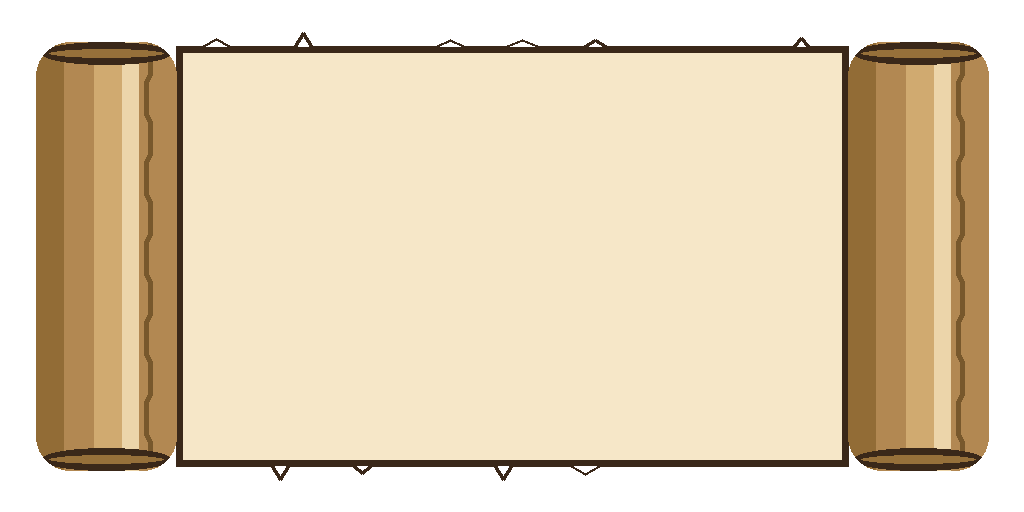
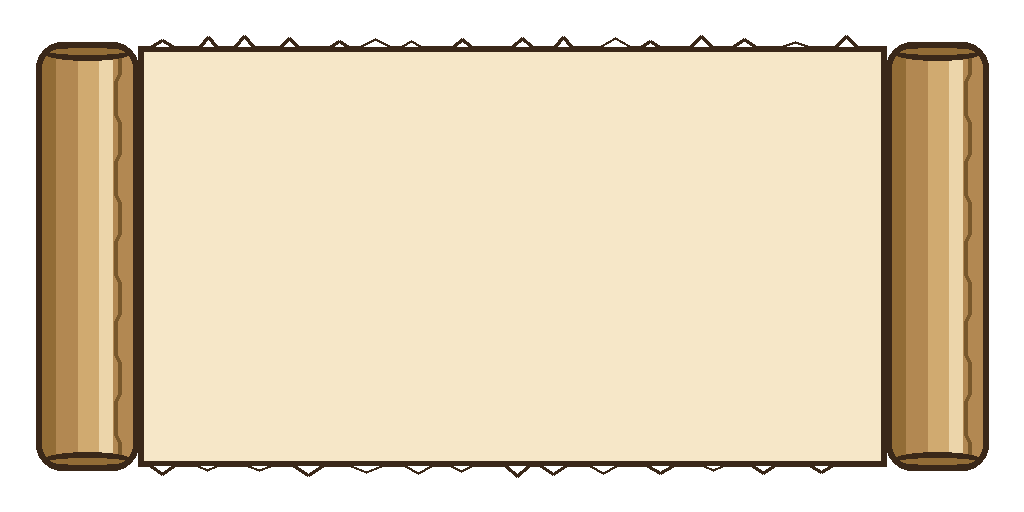
feat(practice): plain sheets, wider slabs, hearts in the rail
阅读正文和作文题目改成单张纸片——没有轴，就是一张撕边的纸；卷轴只留给
填空、翻译和作文作答区，两侧的轴从 92 收到 60。

填空题选项原来是纸上的一道细线，太没存在感，改成同色纸的方形答题格：一
像素细边、无圆角、字母是压上去的深墨圆章，选中时整格转成南瓜橙。翻译的
作答区换成带格线的纸，作文的作答区抬到 260px。

记忆练习：生命条从顶部 HUD 挪到右侧控制栏，HUD 上方的「记忆练习」字样删
掉；选择题和拼写的碑从 525 宽拉到 700，不再方正。

diff --git a/frontend/src/controls.css b/frontend/src/controls.css
@@ -4124,10 +4124,10 @@
   background-clip: padding-box;
   box-shadow: none;
   border-style: solid;
-  border-width: 38px 92px 36px;
+  border-width: 34px 60px 32px;
   border-image-source: url('./assets/halloween/card/sheet-day.png');
-  border-image-slice: 14% 17% 14% 17% fill;
-  border-image-width: 38px 92px 36px;
+  border-image-slice: 14% 12% 14% 12% fill;
+  border-image-width: 34px 60px 32px;
   border-image-repeat: stretch;
   border-color: transparent;
   border-radius: 0;
@@ -4143,10 +4143,10 @@
   background-clip: padding-box;
   box-shadow: none !important;
   border-style: solid !important;
-  border-width: 44px 110px 42px !important;
-  border-image-source: url('./assets/halloween/card/sheet-day.png') !important;
-  border-image-slice: 14% 17% 14% 17% fill !important;
-  border-image-width: 44px 110px 42px !important;
+  border-width: 24px !important;
+  border-image-source: url('./assets/halloween/card/sheet-flat-day.png') !important;
+  border-image-slice: 5% fill !important;
+  border-image-width: 24px !important;
   border-image-repeat: stretch !important;
   border-color: transparent !important;
   border-radius: 0 !important;
@@ -4160,11 +4160,11 @@
   .member-practice-page .practice-question-card.practice-question-card--fill_blank,
   .member-practice-page .practice-question-card.practice-question-card--reading,
   .member-practice-page .practice-question-card.practice-question-card--translation {
-    border-width: 24px 56px 24px; border-image-width: 24px 56px 24px;
+    border-width: 22px 40px 22px; border-image-width: 22px 40px 22px;
   }
   .member-practice-session-page .practice-article-panel,
   .member-practice-page .practice-article-panel {
-    border-width: 26px 64px 26px !important; border-image-width: 26px 64px 26px !important;
+    border-width: 18px !important; border-image-width: 18px !important;
   }
 }
 
@@ -4188,18 +4188,18 @@
 
 .member-practice-session-page .practice-question-card--writing .practice-writing,
 .member-practice-page .practice-question-card--writing .practice-writing {
-  background: #d9c7a4;
+  background: #f6e7c8;
   background-clip: padding-box;
   border-style: solid;
-  border-width: 30px 40px;
-  border-image-source: url('./assets/halloween/card/rune-chip-day.png');
-  border-image-slice: 10% 5% fill;
-  border-image-width: 30px 40px;
+  border-width: 24px;
+  border-image-source: url('./assets/halloween/card/sheet-flat-day.png');
+  border-image-slice: 5% fill;
+  border-image-width: 24px;
   border-image-repeat: stretch;
   border-color: transparent;
   border-radius: 0;
-  padding: 6px 10px 10px;
-  color: #3a2819;
+  padding: 4px 10px 10px;
+  color: #3d2c18;
 }
 
 .member-practice-session-page .practice-question-card--writing .field,
@@ -4207,10 +4207,10 @@
   background: #f3e3c3;
   background-clip: padding-box;
   border-style: solid;
-  border-width: 34px 78px 32px;
+  border-width: 34px 60px 32px;
   border-image-source: url('./assets/halloween/card/sheet-day.png');
-  border-image-slice: 14% 17% 14% 17% fill;
-  border-image-width: 34px 78px 32px;
+  border-image-slice: 14% 12% 14% 12% fill;
+  border-image-width: 34px 60px 32px;
   border-image-repeat: stretch;
   border-color: transparent;
   border-radius: 0;
@@ -4231,38 +4231,45 @@
   color: #3d2c18;
 }
 
-/* An option on the sheet is a line of ink, not a white pill resting on paper:
-   no plate, no radius, no shadow — just a rule under each choice. */
+.member-practice-session-page .practice-question-card--writing .practice-answer-textarea,
+.member-practice-page .practice-question-card--writing .practice-answer-textarea {
+  min-height: 260px;
+  line-height: 2;
+}
+
+/* An option on the sheet is a ruled answer box cut from the same paper — sharp
+   corners, a hairline rim and a dark ink letter — never a white pill floating
+   on top of the sheet. */
 .member-practice-session-page .practice-question-card--reading .practice-option,
 .member-practice-session-page .practice-question-card--fill_blank .practice-option,
 .member-practice-page .practice-question-card--reading .practice-option,
 .member-practice-page .practice-question-card--fill_blank .practice-option {
   min-height: 0;
-  padding: 14px 8px;
+  padding: 13px 14px;
   border-style: solid;
-  border-width: 0 0 1px;
-  border-color: rgb(122 92 48 / 34%);
+  border-width: 1px;
+  border-color: rgb(122 92 48 / 40%);
   border-radius: 0;
-  background: none;
-  box-shadow: none;
+  background: rgb(255 250 238 / 60%);
+  box-shadow: inset 0 1px 0 rgb(255 255 255 / 55%);
 }
 
 .member-practice-session-page .practice-question-card--reading .practice-option:hover,
 .member-practice-session-page .practice-question-card--fill_blank .practice-option:hover,
 .member-practice-page .practice-question-card--reading .practice-option:hover,
 .member-practice-page .practice-question-card--fill_blank .practice-option:hover {
-  background: rgb(122 92 48 / 8%);
-  border-color: rgb(122 92 48 / 55%);
+  background: rgb(255 250 238 / 92%);
+  border-color: rgb(122 92 48 / 70%);
 }
 
 .member-practice-session-page .practice-question-card--reading .practice-option:has(input:checked),
 .member-practice-session-page .practice-question-card--fill_blank .practice-option:has(input:checked),
 .member-practice-page .practice-question-card--reading .practice-option:has(input:checked),
 .member-practice-page .practice-question-card--fill_blank .practice-option:has(input:checked) {
-  background: rgb(255 150 0 / 12%);
-  border-width: 0 0 2px;
-  border-color: #35240f;
-  box-shadow: none;
+  background: rgb(255 150 0 / 14%);
+  border-width: 2px;
+  border-color: #ff9600;
+  box-shadow: inset 0 0 0 1px rgb(255 255 255 / 60%);
 }
 
 .member-practice-session-page .practice-question-card--reading .practice-option:active,
@@ -4270,7 +4277,45 @@
 .member-practice-page .practice-question-card--reading .practice-option:active,
 .member-practice-page .practice-question-card--fill_blank .practice-option:active {
   transform: none;
-  box-shadow: none;
+  box-shadow: inset 0 2px 4px rgb(90 66 36 / 18%);
+}
+
+/* The letter is stamped in ink, so the row has a strong fixed anchor. */
+.member-practice-session-page .practice-question-card--reading .option-badge,
+.member-practice-session-page .practice-question-card--fill_blank .option-badge,
+.member-practice-page .practice-question-card--reading .option-badge,
+.member-practice-page .practice-question-card--fill_blank .option-badge {
+  background: #35240f;
+  border-color: #35240f;
+  color: #f6e7c8;
+}
+
+.member-practice-session-page .practice-question-card--reading .practice-option:has(input:checked) .option-badge,
+.member-practice-session-page .practice-question-card--fill_blank .practice-option:has(input:checked) .option-badge,
+.member-practice-page .practice-question-card--reading .practice-option:has(input:checked) .option-badge,
+.member-practice-page .practice-question-card--fill_blank .practice-option:has(input:checked) .option-badge {
+  background: #ff9600;
+  border-color: #b35f00;
+  color: #35240f;
+}
+
+/* The translation answer is ruled paper, so it reads as somewhere to write. */
+.member-practice-session-page .practice-question-card--translation .practice-answer-textarea,
+.member-practice-page .practice-question-card--translation .practice-answer-textarea {
+  min-height: 150px;
+  padding: 10px 12px;
+  border-width: 1px;
+  border-color: rgb(122 92 48 / 40%);
+  background-color: rgb(255 250 238 / 60%) !important;
+  background-image: repeating-linear-gradient(
+    to bottom,
+    transparent 0,
+    transparent 31px,
+    rgb(122 92 48 / 22%) 31px,
+    rgb(122 92 48 / 22%) 32px
+  ) !important;
+  background-size: 100% 32px;
+  line-height: 32px;
 }
 
 /* ---------- night ---------- */
@@ -4327,24 +4372,22 @@ html[data-mode='night'] {
   .member-practice-session-page .practice-article-panel,
   .member-practice-page .practice-article-panel {
     background: #4a4034 !important;
-    border-image-source: url('./assets/halloween/card/sheet-night.png') !important;
+    border-image-source: url('./assets/halloween/card/sheet-flat-night.png') !important;
   }
 
   @media (max-width: 760px) {
     .member-practice-session-page .practice-article-panel,
     .member-practice-page .practice-article-panel {
-      border-width: 26px 64px 26px !important;
-      border-image-width: 26px 64px 26px !important;
-      border-image-source: url('./assets/halloween/card/sheet-night.png') !important;
-      border-image-slice: 14% 17% 14% 17% fill !important;
+      border-width: 18px !important;
+      border-image-width: 18px !important;
     }
   }
 
   .member-practice-session-page .practice-question-card--writing .practice-writing,
   .member-practice-page .practice-question-card--writing .practice-writing {
-    background: #2a2148;
-    border-image-source: url('./assets/halloween/card/rune-chip.png');
-    color: #f3e9d2;
+    background: #4a4034;
+    border-image-source: url('./assets/halloween/card/sheet-flat-night.png');
+    color: #f0e4cc;
   }
 
   .member-practice-session-page .practice-question-card--writing .field,

diff --git a/frontend/src/game-ui.css b/frontend/src/game-ui.css
@@ -3955,7 +3955,7 @@
 /* Two objects side by side: the question on the left, the controls on the
    right. The rail is a column of its own, not a strip under the card. */
 .personal-workspace .memory-workbench-grid.is-session {
-  grid-template-columns: minmax(0, 540px) 268px;
+  grid-template-columns: minmax(0, 700px) 268px;
   justify-content: center;
   align-items: start;
   gap: 18px 44px;
@@ -3965,7 +3965,7 @@
 
 .personal-workspace .memory-page .lesson-hud {
   margin: 26px auto 0;
-  width: min(100%, 852px);
+  width: min(100%, 1012px);
 }
 
 /* While a card is on screen it owns the column: centred, with the feedback
@@ -4002,6 +4002,10 @@
 
 .memory-rail-actions .div-button,
 .memory-rail-actions .button { width: 100%; }
+
+.memory-rail-heartrow { display: flex; gap: 5px; }
+.memory-rail-heartrow svg { width: 20px; height: 20px; fill: #d1453b; stroke: none; }
+.memory-rail-heartrow svg.is-empty { fill: none; stroke: rgb(122 92 48 / 45%); stroke-width: 1.6; }
 
 /* The run summary: art, four numbers, two ways forward. */
 .lesson-summary {
@@ -4925,6 +4929,13 @@
 .personal-workspace .memory-main-card .workspace-complete-state {
   max-width: 620px;
   margin-inline: auto;
+}
+
+/* The inscription lies long: the slab is a tablet, not a tile. */
+.personal-workspace .memory-main-card .study-card--choice,
+.personal-workspace .memory-main-card .study-card--spelling {
+  max-width: 700px;
+  width: 100%;
 }
 
 .personal-workspace .memory-page .memory-main-card .study-card--choice {

diff --git a/frontend/src/views/MemoryPracticeView.vue b/frontend/src/views/MemoryPracticeView.vue
@@ -435,13 +435,6 @@ watch(challengeModule, async (module, previous) => {
     </section>
 
     <template v-else>
-      <p
-        v-if="session.hasSession.value || session.finished.value"
-        class="memory-session-kicker"
-      >
-        记忆练习
-      </p>
-
       <!-- In a run, the HUD replaces the page furniture: position, combo, way out. -->
       <LessonHud
         v-if="session.question.value"
@@ -451,6 +444,7 @@ watch(challengeModule, async (module, previous) => {
         :combo="combo"
         :hearts="hearts"
         :max-hearts="MAX_HEARTS"
+        :show-hearts="false"
         :label="session.module.value ? MEMORY_MODULE_LABELS[session.module.value] : '记忆练习'"
         @exit="endSession"
       />
@@ -585,6 +579,16 @@ watch(challengeModule, async (module, previous) => {
               <span :style="{ width: `${progressPercent}%` }"></span>
             </span>
           </div>
+        </div>
+
+        <div class="memory-rail-block memory-rail-hearts">
+          <span class="memory-rail-label">生命</span>
+          <span class="memory-rail-heartrow" :aria-label="`剩余 ${hearts} 颗心`">
+            <svg v-for="n in MAX_HEARTS" :key="n" viewBox="0 0 24 24" aria-hidden="true"
+                 :class="{ 'is-empty': n > hearts }">
+              <path d="M12 20s-7-4.4-7-9.1A4 4 0 0 1 12 8a4 4 0 0 1 7 2.9C19 15.6 12 20 12 20Z" />
+            </svg>
+          </span>
         </div>
 
         <div class="memory-rail-block">

diff --git a/frontend/src/components/LessonHud.vue b/frontend/src/components/LessonHud.vue
@@ -9,7 +9,7 @@
  */
 import { computed } from 'vue'
 
-const props = defineProps<{
+const props = withDefaults(defineProps<{
   /** 1-based card number inside this run. */
   index: number
   total: number
@@ -19,7 +19,9 @@ const props = defineProps<{
   hearts: number
   maxHearts: number
   label: string
-}>()
+  /** The memory session draws the hearts in its side rail instead. */
+  showHearts?: boolean
+}>(), { showHearts: true })
 
 const emit = defineEmits<{ (event: 'exit'): void }>()
 
@@ -54,7 +56,7 @@ const percent = computed(() => {
         <b>{{ combo }}</b>
       </span>
 
-      <span class="lesson-hud__hearts" :aria-label="`剩余 ${hearts} 颗心`">
+      <span v-if="props.showHearts" class="lesson-hud__hearts" :aria-label="`剩余 ${hearts} 颗心`">
         <svg v-for="n in maxHearts" :key="n" viewBox="0 0 24 24" aria-hidden="true"
              :class="{ 'is-empty': n > hearts }">
           <path d="M12 20s-7-4.4-7-9.1A4 4 0 0 1 12 8a4 4 0 0 1 7 2.9C19 15.6 12 20 12 20Z" />
